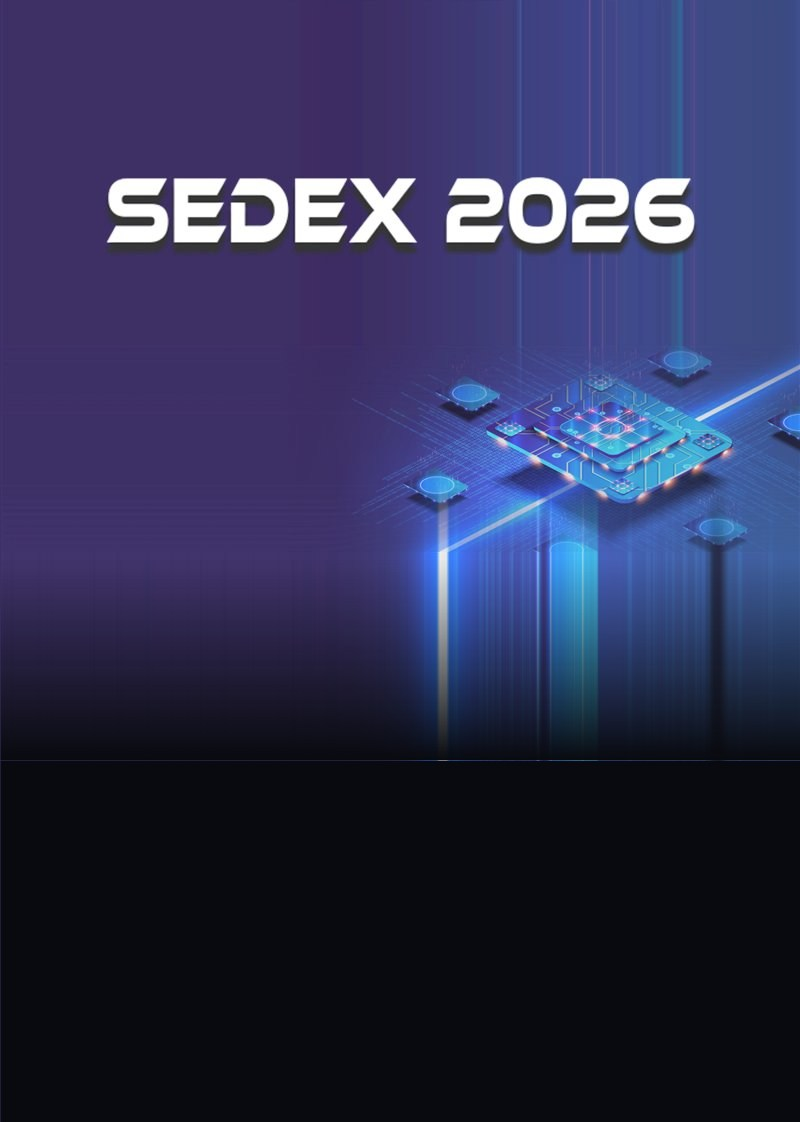
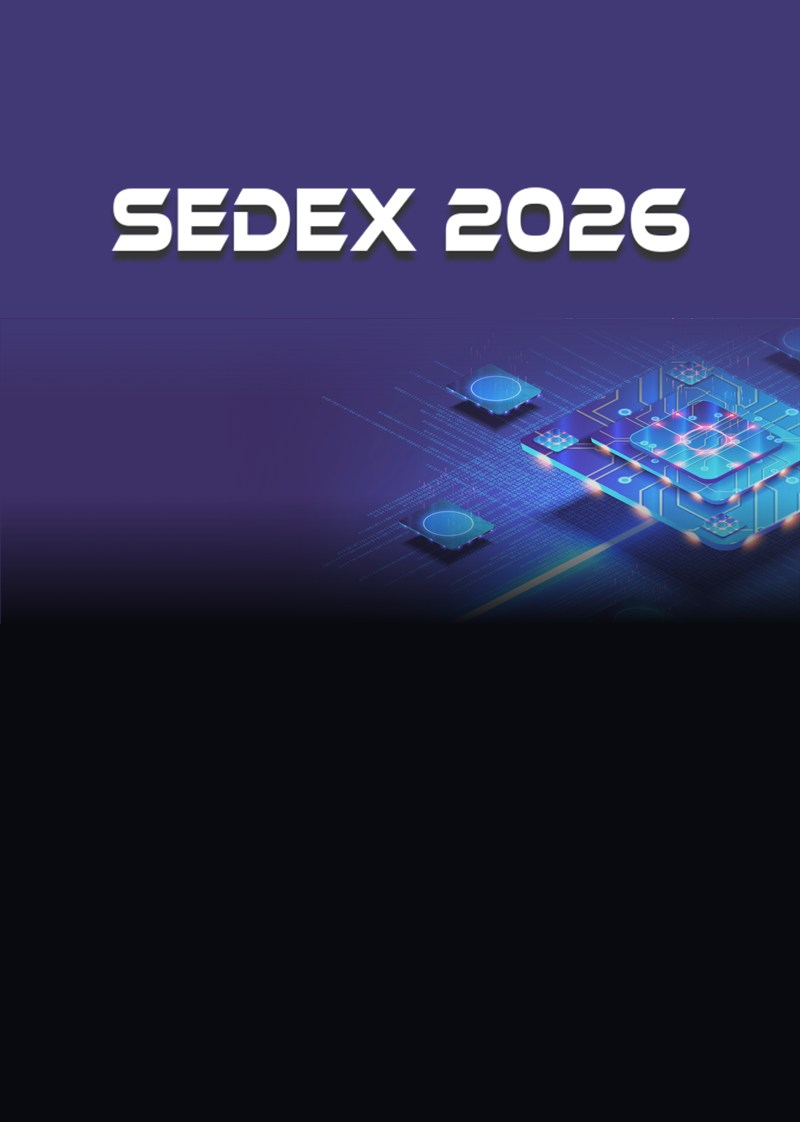
feat(events): ISE 배너형 교체 + SEDEX 재합성(교육 느낌), 둘 다 옅은 그라데이션
- ISE: 안내문 A4 → 마스트헤드 배너(제목·일시·장소·칩)로 교체. 상단 솔리드 블루 +
  하단 검정 그라데이션(교육 포스터 느낌). darkInfo 제거 → 팝업 옅은 그라데이션.
- SEDEX: 하단 빔 streaks 제거, 칩+로고를 보라→검정 그라데이션 위에 재합성(seam 페더).
- posterBg 검정 통일.

Changed region(s): [[0.0, 0.0, 1.0, 0.6863]]

diff --git a/src/constants/events.ts b/src/constants/events.ts
@@ -119,8 +119,7 @@ export const FAB_EVENTS: FabEvent[] = [
     organizer: '반도체공학회',
     link: 'https://event.theise.org/conference/',
     poster: 'events/ises-summer2026.jpg',
-    posterBg: 'rgb(16,27,63)',
-    darkInfo: true,
+    posterBg: 'rgb(8,10,15)',
     accent: 'blue',
     summary: [
       { label: '논문마감', value: '2026.06.08 (결과통보 6.15)' },